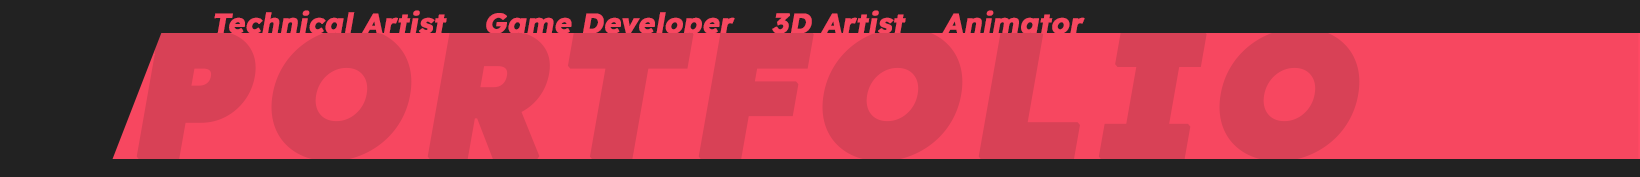
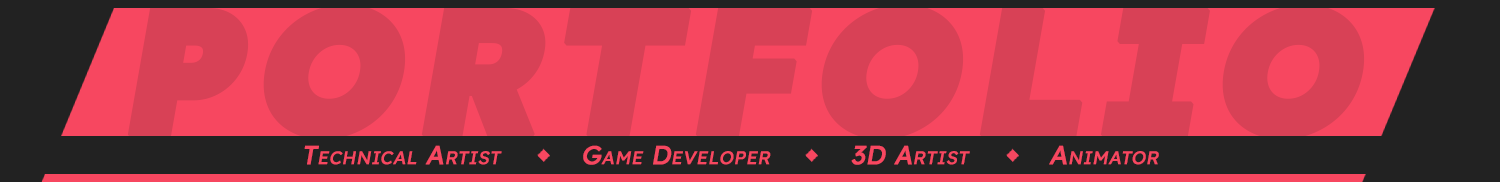
more theme changes

diff --git a/_sass/custom.scss b/_sass/custom.scss
@@ -1,9 +1,13 @@
 // ------------------------
 // Fonts
 // ------------------------
-@import url('https://fonts.googleapis.com/css2?family=Lexend:wght@200;700;1000&display=swap');
+@import url('https://fonts.googleapis.com/css2?family=Lexend:wght@200;300;400;700;900&display=swap');
 
-// #f74760 red
+
+:root {
+  --accent-color: #f74760;
+}
+
 
 html, body {
   background-color: #222222;
@@ -12,7 +16,7 @@ html, body {
 
 // .masthead,
 .page__footer {
-  background-color: #f74760;
+  background-color: var(--accent-color);
   color: #222222;
 }
 
@@ -155,29 +159,29 @@ a:hover {
   opacity: 0;
 }
 
-// Title overlay on thumbnail (top-right now)
+// Title overlay on thumbnail
 .title-overlay {
   position: absolute;
   top: 0.25rem;          // slight top spacing
-  right: -0.2rem;        // align to right side
+  left: -0.3rem;
   background: rgba(0.1333, 0.1333, 0.1333, 0.7);
   padding: 0.2rem 0.8rem;
   display: inline-block;
-  text-align: right;
+  text-align: left;
 }
 
 .title-overlay .subtitle {
   font-size: 0.6rem;
   font-weight: 700;
   text-transform: uppercase;
-  color: #f74760;
+  color: var(--accent-color);
   margin-bottom: -0.6rem;   // closer to title
   margin-top: 0.1rem;
 }
 
 .title-overlay .title {
   font-size: 1.2rem;
-  font-weight: 1000;
+  font-weight: 900;
   color: #eeeeee;
   text-transform: uppercase;
   margin-bottom: -0.2rem;
@@ -196,7 +200,7 @@ a:hover {
 }
 
 .project-card:hover .project-description {
-  background-color: #f74760;
+  background-color: var(--accent-color);
 }
 
 .description-content {
@@ -229,7 +233,7 @@ a:hover {
 
 
 .project-card:hover .project-description {
-  background-color: #f74760;
+  background-color: var(--accent-color);
 }
 
 .project-card,
@@ -279,23 +283,64 @@ a:hover {
   }
 }
 
-/* Text over the image */
 .header-title {
   position: absolute;
-  top: 56%;       /* adjust this to position vertically */
-  left: 12%;       /* distance from left */
+  top: 40%;
+  left: 12%;
   transform: translateY(-50%);
   color: #222222;
-  font-style: italic;
-  font-weight: 1000; /* heavier than 700 if supported */
-  line-height: 1.1;
-  pointer-events: none; /* make sure it doesn't block clicks */
 
-  /* scale text based on the container, not the viewport */
-  font-size: calc(1.5rem + 2%);  /* % is relative to container width */
+  font-family: 'Lexend', sans-serif;
+  font-weight: 900;      /* This is Lexend Black */
+  font-style: italic;    /* Optional */
+  line-height: 1.1;
+  pointer-events: none;
+
+  font-size: calc(2.45rem + 2%); /* scales with header image container width */
 }
+
 
 
 .page__hero {
   display: none !important;
 }
+
+
+
+
+
+// ------------------------
+//   Section Title + Divider
+// ------------------------
+.selected-works .section-title {
+  border: none !important;
+  padding-bottom: 0 !important;
+}
+
+.section-title {
+  color: #f6f6f6;
+  font-size: 1.4rem;
+  text-align: center;
+  font-weight: 700;
+  font-style: italic;
+  margin-bottom: 1rem;
+}
+
+.title-separator {
+  position: relative;
+  width: 1000px;
+  height: 3px;
+  background-color: var(--accent-color);
+  margin: 0 auto 1.5rem auto;
+}
+
+.title-separator .diamond {
+  position: absolute;
+  top: 50%;
+  left: 50%;
+  width: 12px;
+  height: 12px;
+  background-color: var(--accent-color);
+  transform: translate(-50%, -50%) rotate(45deg);
+}
+

diff --git a/_layouts/home.html b/_layouts/home.html
@@ -8,7 +8,7 @@ author_profile: false
 <!-- HEADER -->
 <header class="site-header">
   <img src="/assets/images/header.png" alt="Header">
-  <h1 class="header-title">Sheng Xu</h1>
+  <h1 class="header-title">SHENG XU</h1>
 </header>
 
 
@@ -33,6 +33,15 @@ author_profile: false
   </p>
 </div>
 
+
+
+<!-- Separator -->
+<section class="selected-works">
+  <h2 class="section-title">Selected Works</h2>
+  <div class="title-separator">
+    <span class="diamond"></span>
+  </div>
+</section>
 
 
 
@@ -64,7 +73,7 @@ author_profile: false
         <div class="project-description">
           <div class="description-content">
             <p class="description-text">{{ project.description }}</p>
-            <span class="see-more">...see more</span>
+            <span class="see-more">...view work</span>
           </div>
         </div>
       </a>

diff --git a/_layouts/project.html b/_layouts/project.html
@@ -4,21 +4,4 @@ author_profile: true
 classes: wide
 ---
 
-<!-- 
-<article class="project-page">
-  <h1>{{ page.title }}</h1>
-  <img src="{{ page.thumbnail }}" alt="{{ page.title }}" style="width:100%; max-width:800px;">
-  <div class="project-content">
-    {{ content }}
-  </div>
-</article> -->
-
-
-
-<!-- <div class="project-content">
-  <img src="{{ page.thumbnail }}" alt="{{ page.title }}" style="width:100%; max-width:800px; margin-bottom:1rem;">
-  {{ content }}
-</div> -->
-
-
 {{ content }}
